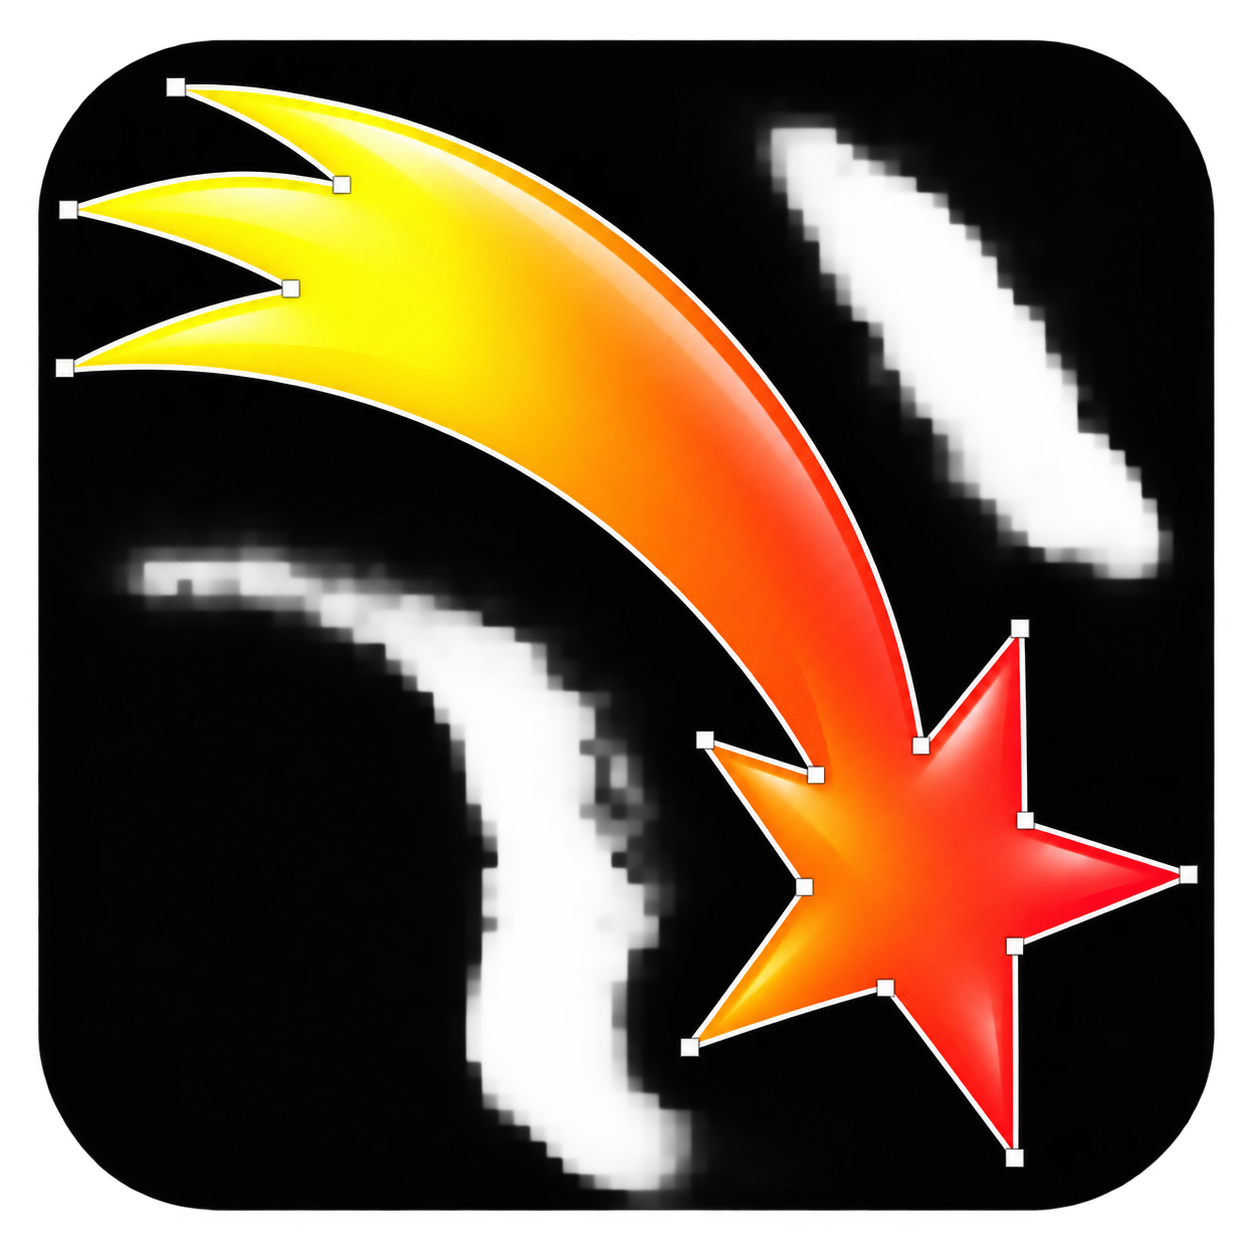
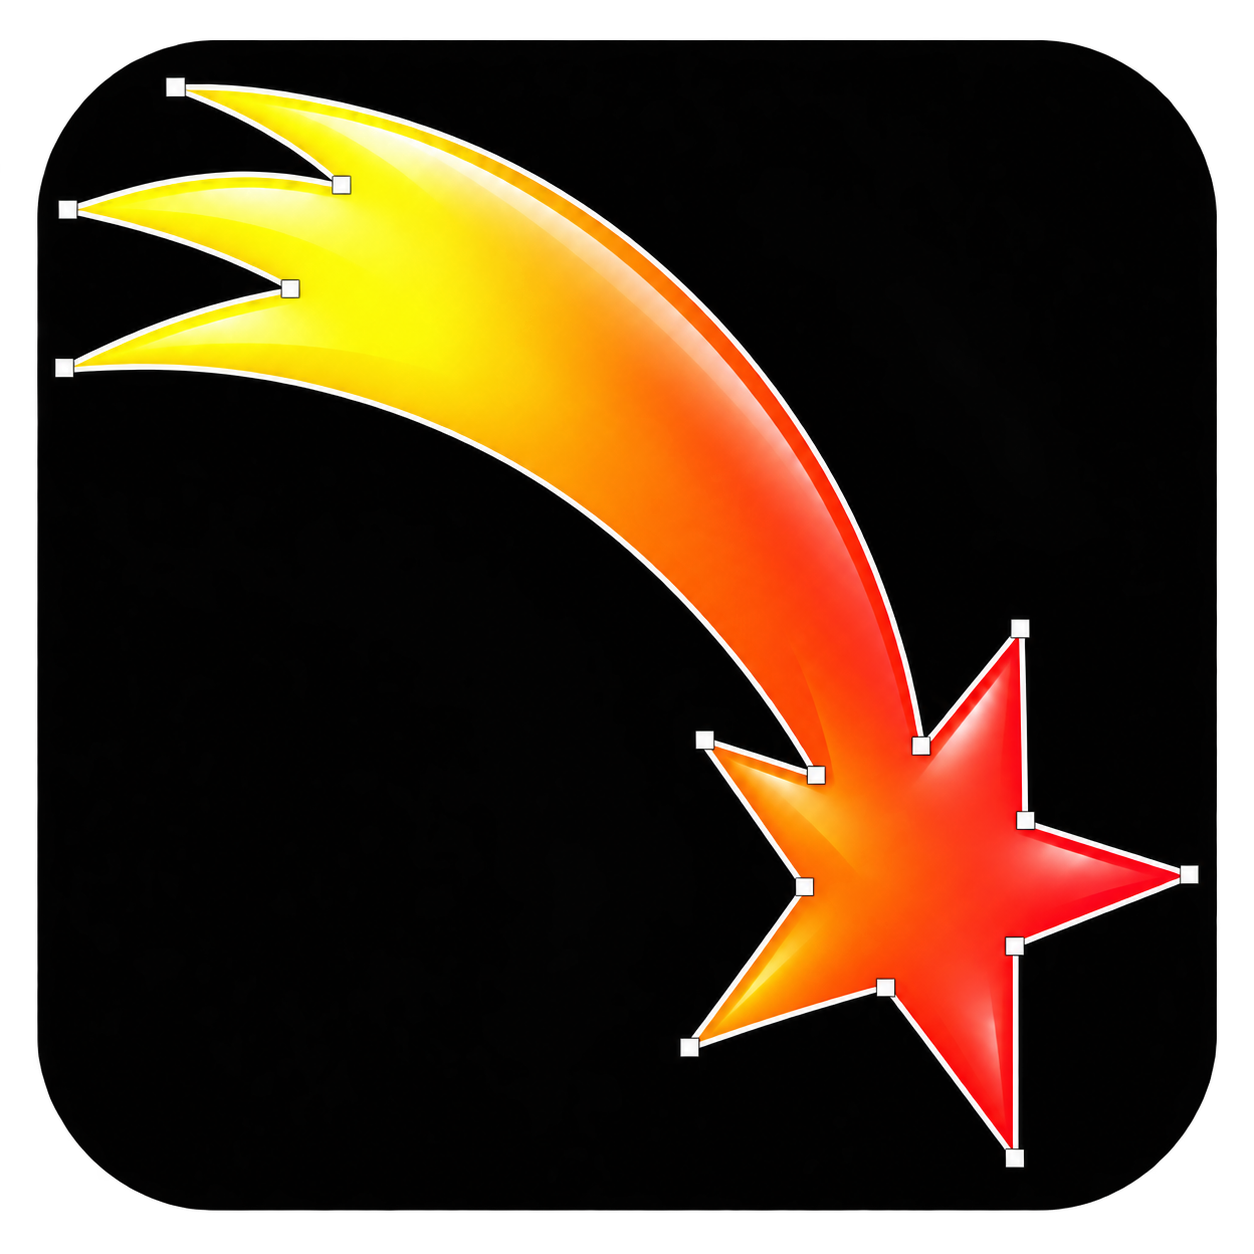
Clean Mirakol star background and replace rectangular hero stamp

diff --git a/app/company_setups/mirakol/theme.css b/app/company_setups/mirakol/theme.css
@@ -1,5 +1,5 @@
 /* Mirakol's palette stays inside its company theme response. */
-:root{--brand-yellow:#ffe600;--accent-dark:#c66b00;--teal-light:#fff1cf;--reward-teal:#c66b00;--green:#9b6200;--green-bg:#fff4d8;--muted:#777;--line:#ddd}
+:root{--bg:#f5f5f5;--paper:#f5f5f5;--brand-yellow:#ffe600;--accent-dark:#c66b00;--teal-light:#fff1cf;--reward-teal:#c66b00;--green:#9b6200;--green-bg:#fff4d8;--muted:#777;--line:#ddd}
 .public-masthead{background:#000;border-color:#ffa500}
 .hero-stamp,.portal-hero,.estimate-head,.custom-quote-cta{background:#000;border-color:#ffa500}
 .hero-stamp,.estimate-head .eyebrow,.custom-quote-cta .eyebrow,.portal-hero .eyebrow,.product-help-card-featured .eyebrow,.project-center-overview .project-next-action span{color:#ffe600}
@@ -47,3 +47,8 @@ body:has(.public-masthead) .step-number{background:#333;color:#ffe600}
 body:has(.public-masthead) .btn.ghost{color:#ffe600}
 body:has(.public-masthead) .terms-section-links a,body:has(.public-masthead) .terms-confirmation,body:has(.public-masthead) .approval-agreement{background:#222;color:#eee;border-color:#555}
 body:has(.public-masthead) .terms-document h2,body:has(.public-masthead) .terms-confirmation h2{color:#ffe600}
+
+/* Replace the rectangular slogan stamp with the company's shooting star. */
+.hero-stamp{background-color:#000;background-image:var(--company-icon);background-size:contain;background-position:center;background-repeat:no-repeat;width:210px;height:210px;padding:0;box-shadow:none;transform:none;border:0;border-radius:0;font-size:0;color:transparent}
+.hero-stamp span{display:none}
+@media(max-width:650px){.hero-stamp{display:block;width:125px;height:125px;flex-shrink:0}.hero{gap:14px}.hero h1{font-size:36px}}

diff --git a/app/company.py b/app/company.py
@@ -162,13 +162,15 @@ def install(app, directory, require_admin, platform=True):
         css=f':root{{--teal:{primary};--brand-teal:{primary};--accent:{primary};--brand-orange:{primary};--ink:{dark};--nav:{dark};--dark:{dark}}}.btn.primary{{background:{primary};color:{foreground}}}.sidebar,.login-art{{background:{dark}}}' if shop.get('brand_custom') else ''
         # Bundled company styles apply only inside that company's isolated workspace.
         if not platform and directory.name=='mirakol':
+            if re.fullmatch(r'[a-f0-9]{64}\.png',shop.get('brand_icon','')):
+                css+=f':root{{--company-icon:url("/brand/images/{shop["brand_icon"]}")}}'
             css+=(Path(__file__).parent/'company_setups'/'mirakol'/'theme.css').read_text()
         return Response(css,media_type='text/css')
 
     @app.get('/staff/manifest.webmanifest')
     def manifest():
         with transaction(db) as conn: shop=DEFAULTS|settings(conn)
-        return Response(json.dumps({'id':'/staff/app','name':shop['shop_name']+' Staff','short_name':shop['app_short_name'],'start_url':'/staff/app','scope':'/staff/','display':'standalone','background_color':'#f0f5f4','theme_color':shop['brand_dark'],'icons':[{'src':icon_url(shop),'sizes':'180x180','type':'image/png','purpose':'any'}]}),media_type='application/manifest+json')
+        return Response(json.dumps({'id':'/staff/app','name':shop['shop_name']+' Staff','short_name':shop['app_short_name'],'start_url':'/staff/app','scope':'/staff/','display':'standalone','background_color':shop['brand_dark'] if not platform else '#f0f5f4','theme_color':shop['brand_dark'],'icons':[{'src':icon_url(shop),'sizes':'180x180','type':'image/png','purpose':'any'}]}),media_type='application/manifest+json')
 
     @app.get('/brand/app-icon.png')
     def icon():

diff --git a/tests/test_company_setup.py b/tests/test_company_setup.py
@@ -36,6 +36,8 @@ def test_mirakol_setup_is_private_quote_only_and_applied_once(env):
     assert 'color:#000000' in theme
     assert '--brand-teal:#ffa500' in theme and '--brand-yellow:#ffe600' in theme
     assert 'body:has(.public-masthead)' in theme
+    assert '/brand/images/'+brand['brand_icon'] in theme
+    assert first.get('/staff/manifest.webmanifest').json()['background_color']=='#000000'
     assert '--brand-yellow' not in admin.get('/brand/theme.css').text
     catalog=first.get('/api/catalog').json()
     assert catalog['shop']['storefront_category_order'].startswith('Apparel, Events, Promotional Products')
@@ -96,7 +98,7 @@ def test_reference_icon_update_preserves_owner_settings_draft_and_products(env):
     clean,_,_,_=sanitize((bundle/'icon.png').read_bytes(),'icon.png')
     previous_icon=hashlib.sha256(clean).hexdigest()+'.png'
     with transaction(child.state.database,True) as conn:
-        conn.execute("DELETE FROM company_setup_applied WHERE id='mirakol-reference-icon-20261002-v2'")
+        conn.execute("DELETE FROM company_setup_applied WHERE id='mirakol-reference-icon-20261002-v3'")
         shop=settings(conn)|{'brand_primary':'#123456','contact_phone':'555-0100','brand_icon':previous_icon}
         conn.execute('UPDATE settings SET data=? WHERE id=1',(json.dumps(shop),))
         draft=json.loads(conn.execute('SELECT data FROM company_draft WHERE id=1').fetchone()[0])
